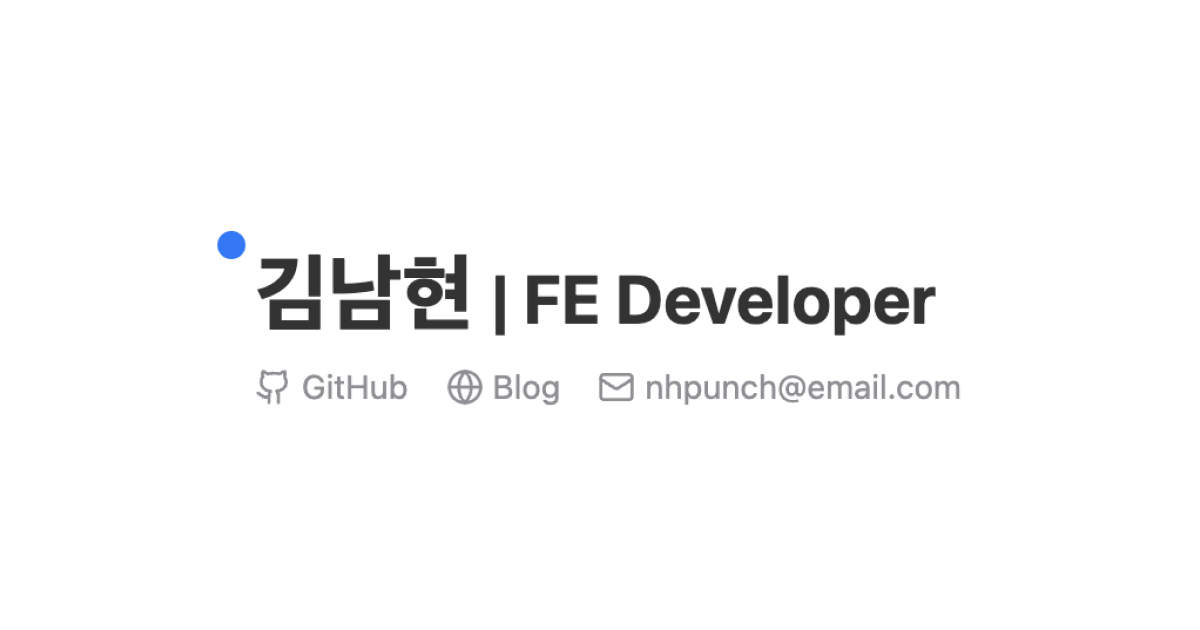
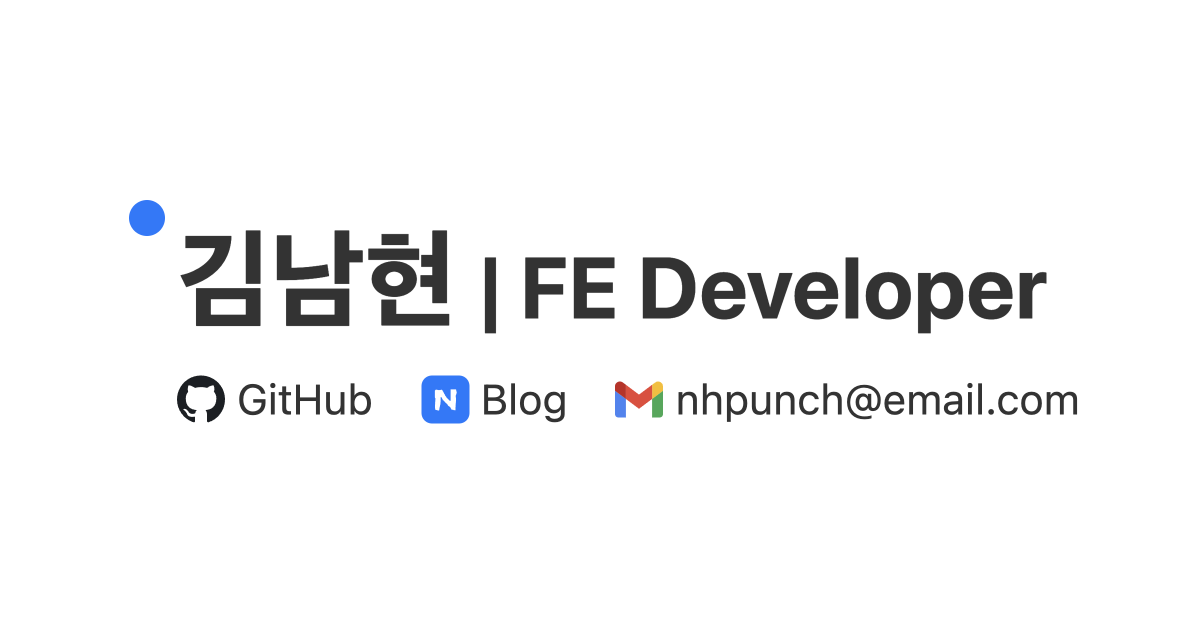
update resume

Changed region(s): [[0.0925, 0.3016, 0.8942, 0.5429], [0.1233, 0.573, 0.8942, 0.6937]]

diff --git a/src/Resume.tsx b/src/Resume.tsx
@@ -1,4 +1,4 @@
-import { Mail, Github, Globe, Terminal, FolderSearch } from 'lucide-react';
+import { Terminal, FolderSearch } from 'lucide-react';
 
 export default function Resume() {
   return (
@@ -7,13 +7,18 @@ export default function Resume() {
         <h1 className='text-4xl font-extrabold mb-2'>
           김남현 <small className='font-bold'>| FE Developer</small>
         </h1>
-        <div className='inline-flex items-center gap-4 text-sm text-gray'>
+        <div className='inline-flex items-center gap-4 text-sm'>
           <a
             href='http://github.com/nuyhman'
             target='_blank'
             className='flex items-center hover:text-blue'
           >
-            <Github size='16' className='mr-1' />
+            {/* <Github size='16' className='mr-1' /> */}
+            <img
+              src='/resume/github.svg'
+              alt='github logo'
+              className='w-4 h-4 mr-1'
+            />
             GitHub
           </a>
           <a
@@ -21,14 +26,24 @@ export default function Resume() {
             target='_blank'
             className='flex items-center hover:text-blue'
           >
-            <Globe className='w-4 h-4 mr-1' />
+            {/* <Globe className='w-4 h-4 mr-1 text-black' /> */}
+            <img
+              src='/resume/favicon.svg'
+              alt='blog logo'
+              className='w-4 h-4 mr-1'
+            />
             Blog
           </a>
           <a
             href='mailto:nhpunch@email.com'
             className='flex items-center hover:text-blue'
           >
-            <Mail className='w-4 h-4 mr-1' />
+            {/* <Mail className='w-4 h-4 mr-1' /> */}
+            <img
+              src='/resume/gmail.svg'
+              alt='gmail logo'
+              className='w-4 h-4 mr-1'
+            />
             nhpunch@email.com
           </a>
         </div>
